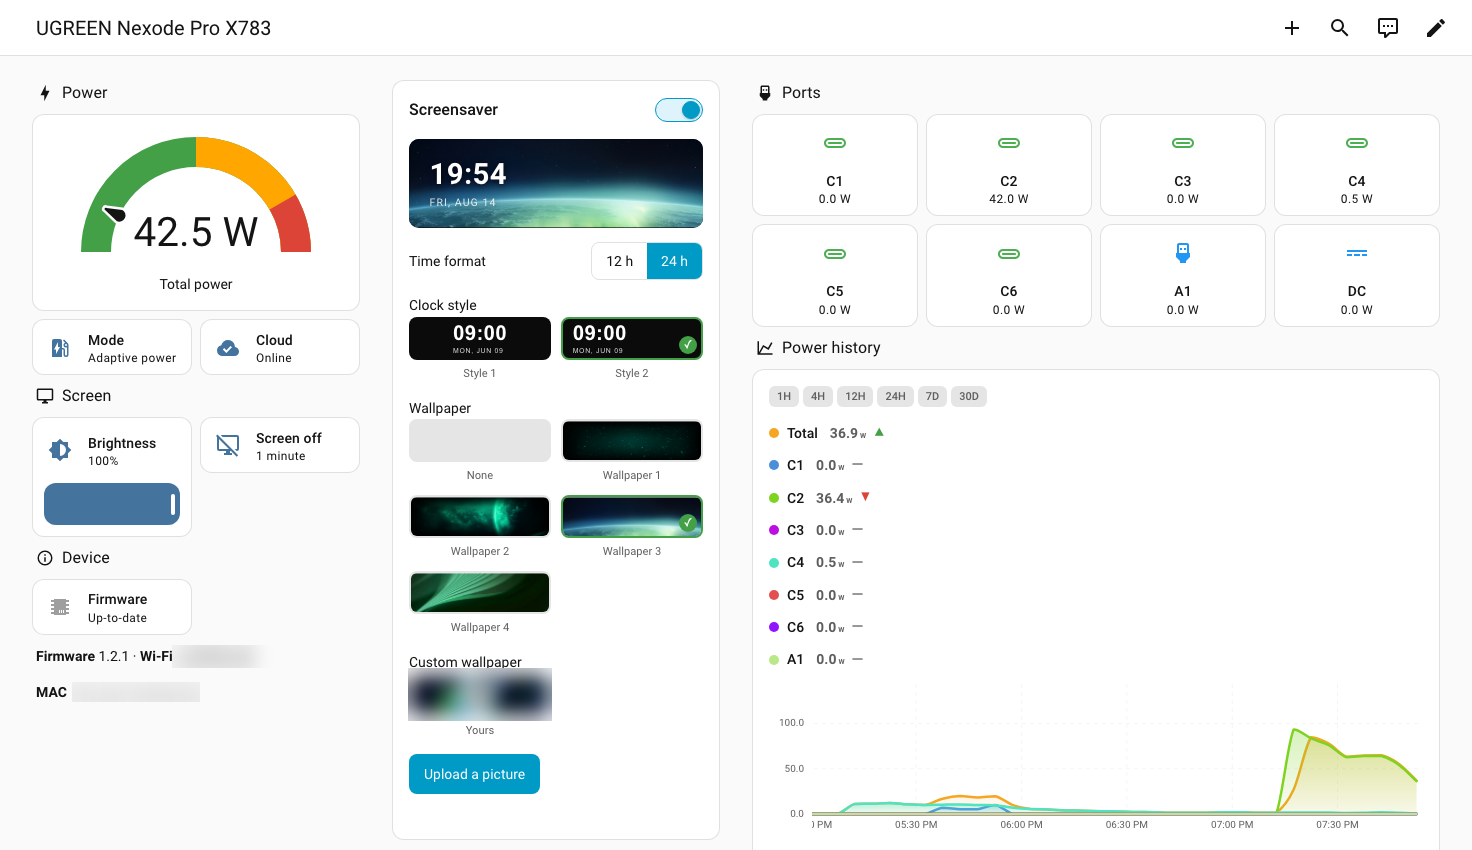
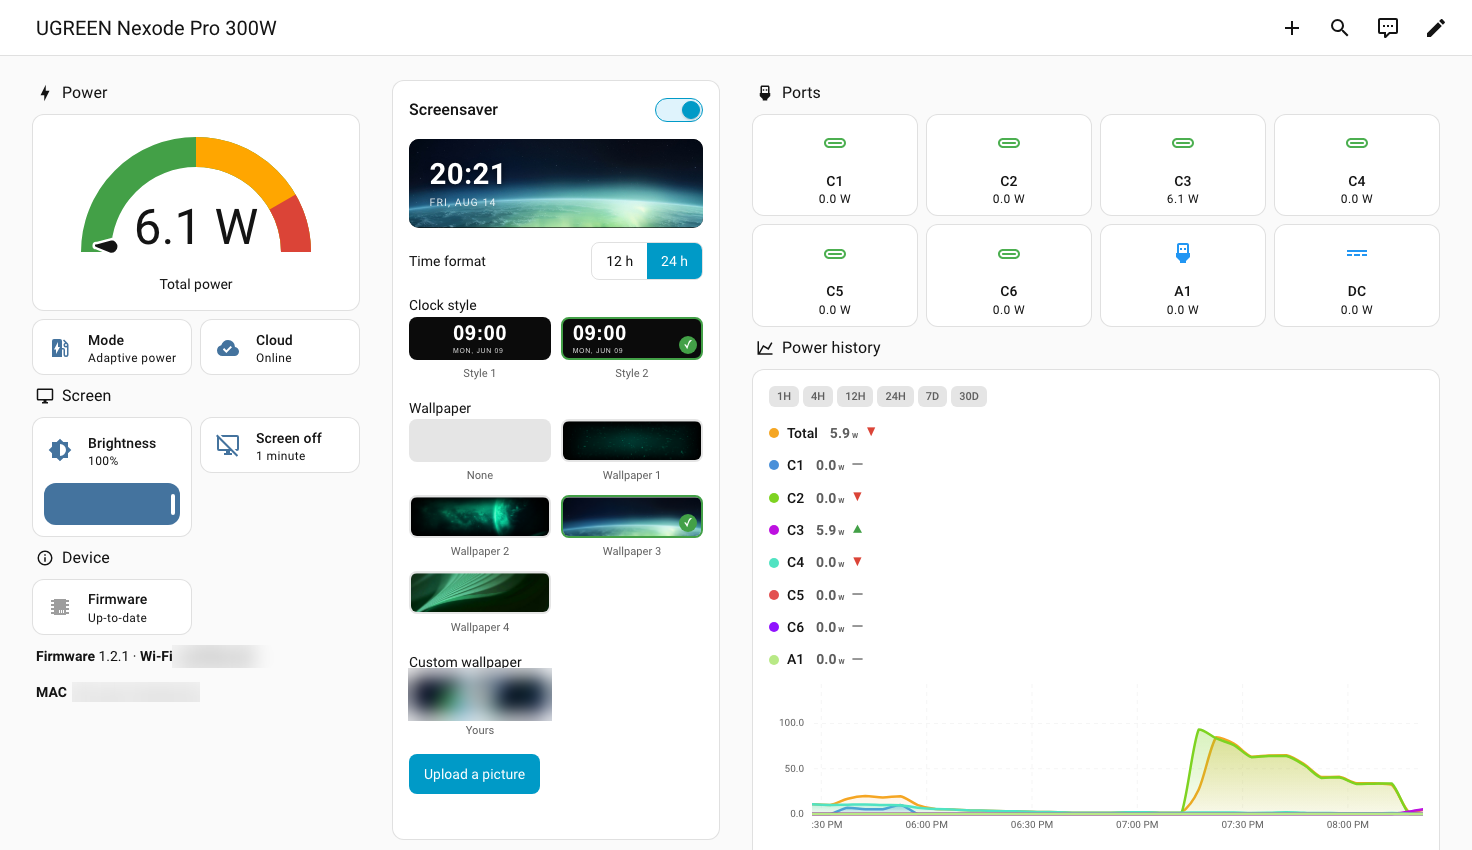
Call the charger what UGREEN calls it
X783 is the code the app knows the model by; nothing on the box or the product
page says it. The documentation now leads with Nexode Pro 300W and mentions the
code once, for the sake of anyone matching an entity id against it. The constant
in const.py keeps the code, because that is exactly what it is -- the per-model
port table another model would have to sit beside.

diff --git a/custom_components/ugreen_connect/const.py b/custom_components/ugreen_connect/const.py
@@ -57,7 +57,9 @@ PT_DATA_MAX_AGE: Final = 300
 # what the app uploads is this way round.
 WALLPAPER_SIZE: Final[tuple[int, int]] = (560, 170)
 
-# Port order of the X783's power report, from the app's own port table.
+# Port order of the power report on the Nexode Pro 300W, from the app's own port
+# table. X783 is what the app calls that model internally, and is kept here
+# because a second model would need its own list beside this one.
 X783_PORTS: Final[tuple[str, ...]] = ("C1", "C2", "C3", "C4", "C5", "C6", "A1", "DC")
 
 # The charging protocol each port negotiated, reported one byte per port at the

diff --git a/custom_components/ugreen_connect/rtcx.py b/custom_components/ugreen_connect/rtcx.py
@@ -406,7 +406,7 @@ class RtcxClient:
         """Everything the screen settings need, in one round trip.
 
         Byte offsets were established by writing a distinctive value and reading
-        it back on a real X783, not by guessing.
+        it back on a real charger, not by guessing.
         """
         value = await self._ask(iot_id, FRAME_QUERY, QUERY_GET_DEVICE_STATE)
         body = frame_body(value, FRAME_QUERY, QUERY_GET_DEVICE_STATE) if value else None

diff --git a/README.md b/README.md
@@ -1,7 +1,10 @@
 # UGREEN Connect for Home Assistant
 
 Home Assistant integration for chargers managed by the **UgreenConnect** app
-(`*.ugreeniot.com`). Developed against a **UGREEN Nexode Pro X783**.
+(`*.ugreeniot.com`). Developed against a **UGREEN Nexode Pro 300W (X783)** —
+sold as the *Nexode Pro Smart Display Desktop Charger, 300W, 8-Port, GaN*.
+`X783` is the code the app knows it by, and the one that turns up in entity ids;
+it is not printed on the box.
 
 Live per-port **voltage, current and power**, plus everything the app's screen
 settings can do: brightness, screen-off time, charging mode, and the whole
@@ -76,7 +79,7 @@ entities once it has been seen, so unplugging a cable does not delete its
 history.
 
 **What the device does not offer.** Its TSL model declares `WiFiRSSI`,
-`errorCode`, `IPAddress` and more, but the X783 never populates them — asking
+`errorCode`, `IPAddress` and more, but this charger never populates them — asking
 for those identifiers returns the same four properties it always reports. There
 is no temperature sensor of any kind, and no energy total, so the charger cannot
 feed Home Assistant's Energy dashboard directly (a Riemann-sum helper over
@@ -250,7 +253,8 @@ fine.
 
 Issues and pull requests are welcome, especially from owners of other UGREEN
 chargers — the port table and the byte offsets in `const.py` and `rtcx.py` are
-X783-specific and are the first thing another model will disagree about. A
+specific to the 300W eight-port model and are the first thing another one will
+disagree about. A
 diagnostics download (*Settings → Devices & Services → UGREEN Connect →
 Download diagnostics*) is the most useful thing to attach; it has credentials
 redacted.
